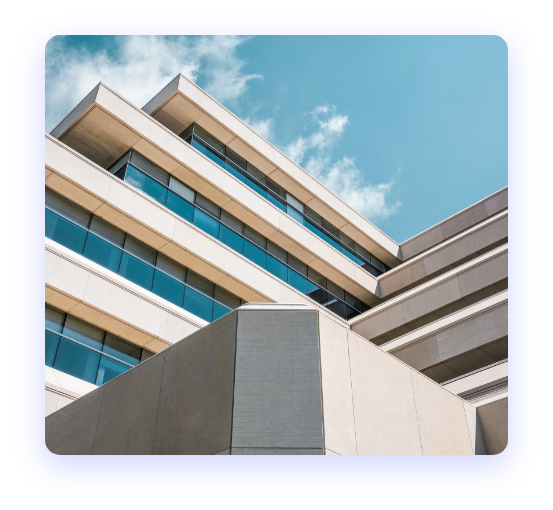
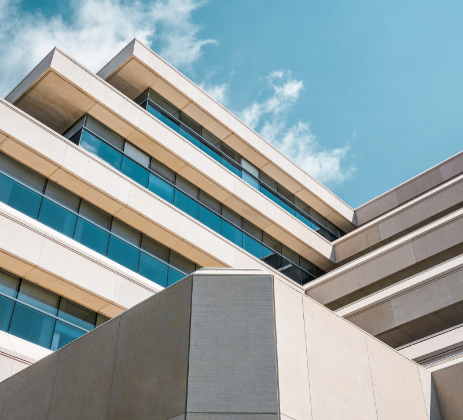
add images and texts

diff --git a/index.html b/index.html
@@ -19,6 +19,39 @@
           </div>
         </div>
       </div>
+      <div class="images container">
+        <div>
+          <img src="/images/image1.png" alt="" />
+          <p>
+            ჩვენი მიმდინარე პროექტი რომელიც შენდება დიდუბეში, წერეთლის 143
+            ნომერში
+          </p>
+        </div>
+        <div>
+          <img src="/images/image2.png" alt="" class="img2" />
+          <p class="text2">
+            ჩვენი მიმდინარე პროექტი რომელიც შენდება დიდუბეში, წერეთლის 143
+            ნომერში
+          </p>
+        </div>
+        <div>
+          <img src="/images/image3.png" alt="" />
+          <p>
+            ჩვენი მიმდინარე პროექტი რომელიც შენდება დიდუბეში, წერეთლის 143
+            ნომერში
+          </p>
+        </div>
+        <div>
+          <img src="/images/image4.png" alt="" />
+          <p>
+            ჩვენი მიმდინარე პროექტი რომელიც შენდება დიდუბეში, წერეთლის 143
+            ნომერში
+          </p>
+        </div>
+      </div>
+      <div class="projects container">
+        <h3>სხვა პროექტები</h3>
+      </div>
     </section>
   </body>
 </html>

diff --git a/styles/main.css b/styles/main.css
@@ -13,13 +13,17 @@
 .box {
   background-color: #0a22f4;
   height: 270px;
+  display: flex;
 }
 .box h3 {
   color: #ffffff;
   font-size: 32px;
+  margin-top: 70px;
+  margin-left: 240px;
 }
 .circles {
   display: flex;
+  margin-top: 84px;
 }
 .circle-item {
   background-color: #ffffff;
@@ -38,4 +42,39 @@
 }
 .box .circles {
   display: flex;
+  margin-left: 1185px;
+  justify-content: space-around;
+}
+.images {
+  display: flex;
+  margin-top: -80px;
+  justify-content: space-evenly;
+  flex-wrap: wrap;
+}
+.images img {
+  position: absolute;
+  width: 463px;
+  height: 420px;
+}
+.images p {
+  position: relative;
+  background-color: #ffffff;
+  background-size: 443px 125px;
+  width: 339px;
+  height: 65px;
+  margin: 315px 84px 40px 40px;
+}
+.img2 {
+  margin-top: -30px;
+  border-radius: 15px;
+}
+.text2 {
+  width: 346px;
+  height: 68px;
+  margin: 313px 77px 39px 40px;
+}
+.projects {
+  margin-top: 70px;
+  padding-left: 1519px;
+  font-size: 18px;
 }
